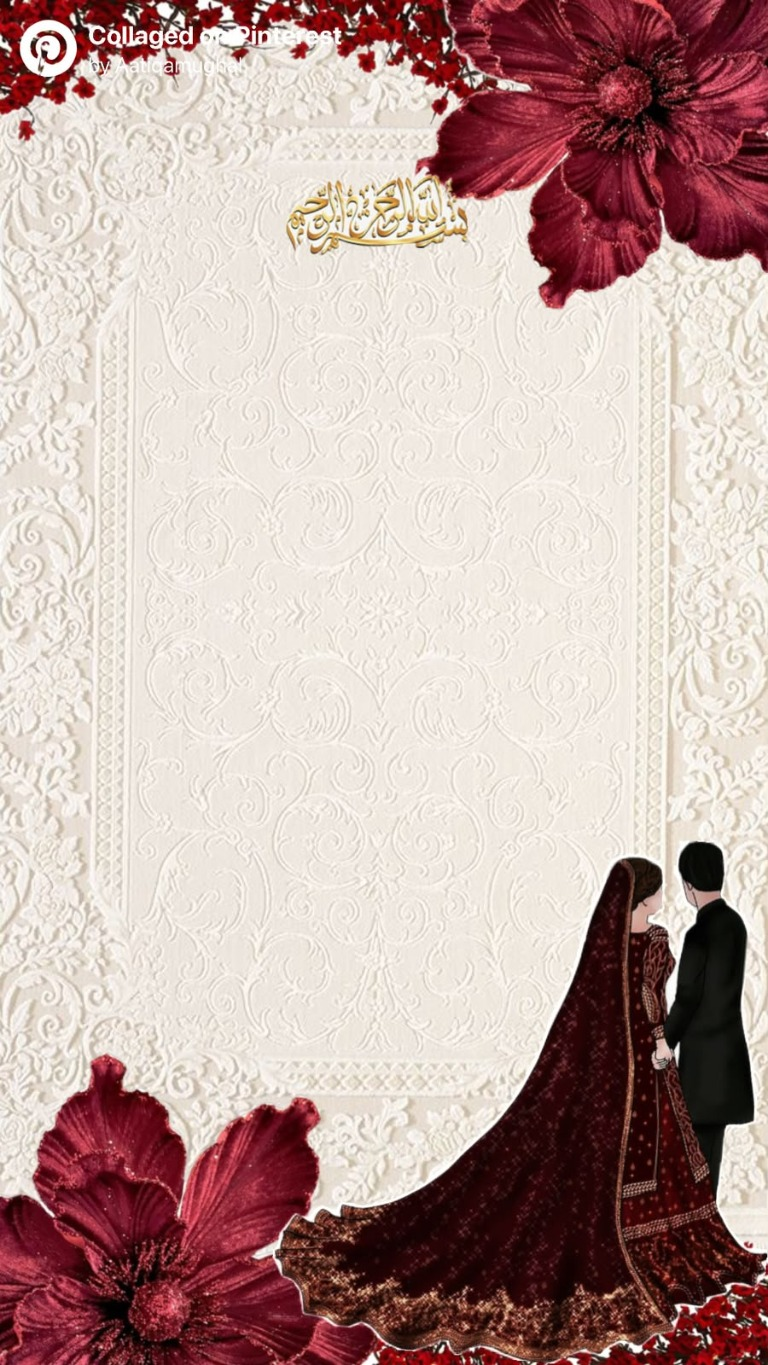
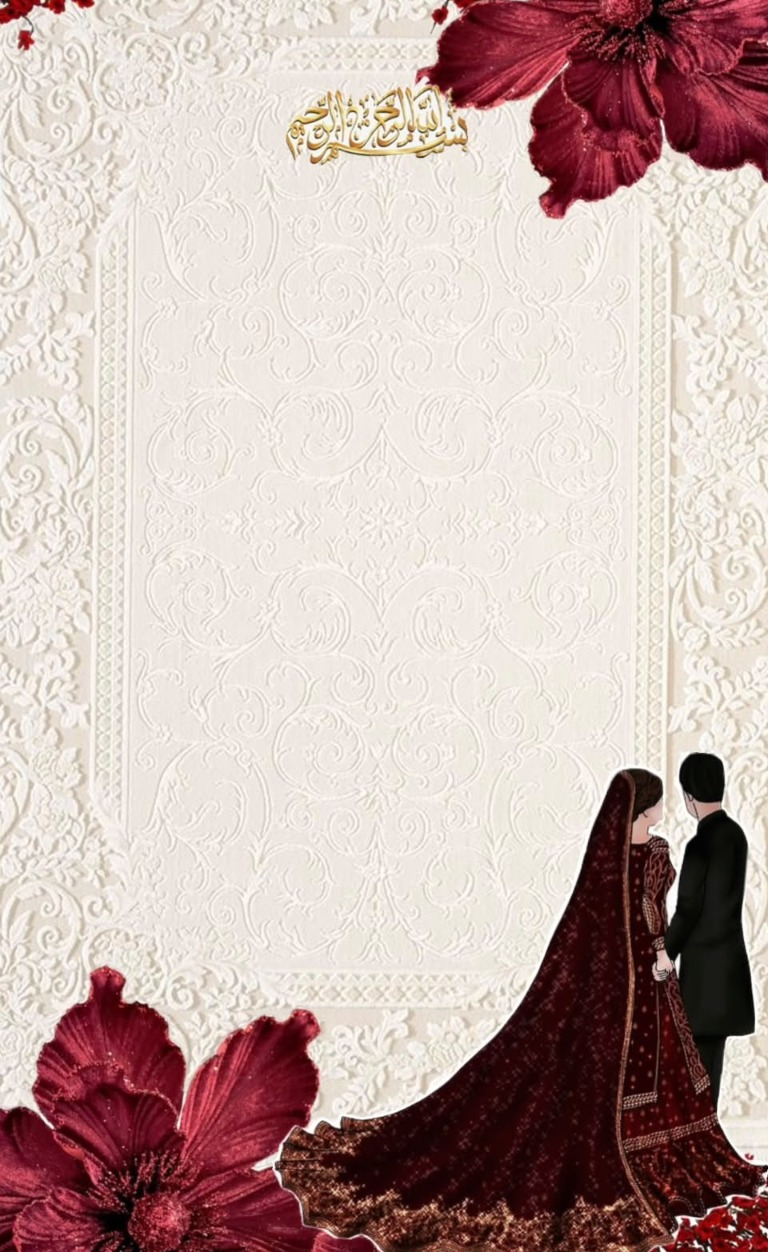
first commit

diff --git a/index.html b/index.html
@@ -4,7 +4,7 @@
   <meta charset="UTF-8">
   <meta name="viewport" content="width=device-width, initial-scale=1.0">
   <meta name="theme-color" content="#8b0000">
-  <title>Wedding Invitation | HASEEB IJAZ & D/O NAEEM GHAFFAR</title>
+  <title>Wedding Invitation | D/O NAEEM GHAFFAR & HASEEB EJAZ</title>
   <link rel="preconnect" href="https://fonts.googleapis.com">
   <link rel="preconnect" href="https://fonts.gstatic.com" crossorigin>
   <link href="https://fonts.googleapis.com/css2?family=Cormorant+Garamond:wght@400;500;600;700&family=DM+Sans:wght@300;400;500;600&family=Great+Vibes&display=swap" rel="stylesheet">
@@ -19,7 +19,7 @@
         <span class="arabic">بِسْمِ اللّٰهِ الرَّحْمٰنِ الرَّحِيْمِ</span>
         <span class="seal">H <i>&</i> A</span>
         <span class="cover-kicker">WEDDING RECEPTION</span>
-        <span class="cover-names">HASEEB IJAZ &amp; D/O NAEEM GHAFFAR<br></span>
+        <span class="cover-names">D/O NAEEM GHAFFAR &amp; HASEEB EJAZ<br></span>
       </button>
       <p class="tap-hint">T A P &nbsp; T O &nbsp; O P E N</p>
       <p class="cover-small">A celebration of love and togetherness</p>
@@ -29,14 +29,14 @@
       <section class="page hero-page reveal">
         <div class="ornament">✧ &nbsp; W E D D I N G &nbsp; R E C E P T I O N &nbsp; ✧</div>
         <p class="script">Together with their families</p>
-        <p class="small-caps">REQUEST THE HONOUR OF YOUR PRESENCE</p>
-        <h1>HASEEB<br><span>IJAZ</span></h1>
-        <p class="subline">S/O IJAZ AHMED</p>
-        <p class="script with">with</p>
-        <h1 class="bride"> D/O NAEEM<br><span>GHAFFAR</span></h1>
+        <p class="small-caps">Your presence and blessings would mean a great deal to both families.</p>
+        <h1>D/O NAEEM<br><span>GHAFFAR</span></h1>
         <p class="subline">D/O NAEEM GHAFFAR</p>
+        <p class="script with">with</p>
+        <h1 class="bride"> HASEEB<br><span>EJAZ</span></h1>
+        <p class="subline">S/O EJAZ AHMED</p>
         <div class="fine-rule"></div>
-        <p class="blessing">Your presence and blessings would mean a great deal to both families.</p>
+        <p class="blessing">REQUEST THE HONOUR OF YOUR PRESENCE</p>
         <div class="leaf">❧</div>
       </section>
 
@@ -48,7 +48,7 @@
           <div class="scratch-under">
             <span class="script">Save the date</span>
             <strong>13 DECEMBER 2026</strong>
-            <span>9:00 PM</span>
+            <span>7:30 PM</span>
           </div>
           <canvas id="scratchCanvas" aria-label="Scratch to reveal the wedding date"></canvas>
         </div>
@@ -60,7 +60,7 @@
         <div class="date-card">
           <p class="small-caps">SUNDAY</p>
           <h2>13 DECEMBER 2026</h2>
-          <p class="script">9:00 PM</p>
+          <p class="script">7:30 PM</p>
         </div>
         <p class="count-label">C O U N T I N G &nbsp; D O W N &nbsp; T O &nbsp; T H E &nbsp; D A Y</p>
         <div class="countdown" id="countdown">
@@ -86,16 +86,15 @@
         <p class="small-caps">WITH THE BLESSINGS OF</p>
         <h2>OUR FAMILIES</h2>
         <div class="family-list">
-          <p>Mr. REYAN MUGHAL</p>
+          <p>Mr. and Mrs. NAEEM GHAFFAR WITH FAMILY</p>
           <p>Mr. and Mrs. MIRZA NADEEM GHAFFAR</p>
           <p>Mr. and Mrs. KHALID ATTARI</p>
-          <p>Mr. and Mrs. SALEEM GHAFFAR</p>
+          <p>Mr. SALEEM   GHAFFAR</p>
           <p>Mr. and Mrs. KALEEM GHAFFAR</p>
-          <p>Mr. and Mrs. Malik Muhammad Younis</p>
-          <p>Mr. and Mrs. ISRAR AHMED</p>
           <p>Mr. and Mrs. MIRZA ABDUL AZIZ</p>
+          <p>Mr. and Mrs. ISRAR AHMED</p>
           <p>Mr. and Mrs. AKBAR MALIK</p>
-          <p>Mr. and Mrs. KAMRAN</p>
+          <p>Mr. and Mrs. KAMRAN AHMED</p>
           <p>Mr. and Mrs. ANWAR AHMED</p>
         </div>
       </section>
@@ -103,17 +102,16 @@
       <section class="page save-page reveal">
         <p class="small-caps">K E E P &nbsp; T H E &nbsp; D A T E</p>
         <h2>SAVE THE DATE</h2>
-        <p>Sunday, 13 December 2026 · 9:00 PM PKT</p>
+        <p>Sunday, 13 December 2026 · 7:30 PM PKT</p>
         <button class="pill-btn" id="googleCalendar">GOOGLE CALENDAR</button>
         <button class="pill-btn secondary" id="outlookCalendar">OUTLOOK CALENDAR</button>
-        <button class="pill-btn secondary" id="downloadIcs">APPLE CALENDAR (.ICS)</button>
+        
       </section>
 
       <section class="page share-page reveal">
         <p class="small-caps">P A S S &nbsp; I T &nbsp; O N</p>
         <h2>SHARE THE<br>INVITATION</h2>
         <button class="pill-btn" id="shareWhatsApp">SHARE ON WHATSAPP</button>
-        <button class="pill-btn secondary" id="copyLink">COPY INVITATION LINK</button>
         <div class="closing">
           <div class="diamond-rule">◇</div>
           <p class="small-caps">WITH LOVE &amp; WARMEST WISHES</p>

diff --git a/style.css b/style.css
@@ -1,5 +1,5 @@
 *{box-sizing:border-box} :root{--paper:#e4c45e;--paper2:#f8f3e9;--ink:#28251f;--muted:#897b63;--gold:#b49a69;--green:#596047}
-html{scroll-behavior:smooth}body{margin:0;background:#8b0000;color:var(--ink);font-family:"DM Sans",sans-serif;font-weight:300}
+html{scroll-behavior:smooth}body{margin:0;background:#8b0000;color:var(--ink);font-family:"DM Sans",sans-serif;font-weight:400}
 .invitation{width:min(100%,480px);margin:0 auto;background:var(--paper);min-height:100vh;overflow:hidden;box-shadow:0 0 55px #54493622}
 .cover-screen{min-height:100svh;display:flex;flex-direction:column;align-items:center;justify-content:center;position:relative;padding:30px 24px;background:#e4c45e url("background-invitation.jpeg") center/cover no-repeat;overflow:hidden}
 .cover-glow{display:none}
@@ -27,3 +27,41 @@ h1,h2,h3{font-family:"Cormorant Garamond",Georgia,serif;font-weight:600}h1{font-
 .reveal{opacity:0;transform:translateY(28px);transition:opacity 1s ease,transform 1s ease}.reveal.in-view{opacity:1;transform:translateY(0)}
 @media(min-width:600px){.invitation{margin:25px auto;border-radius:3px}.cover-screen,.page{min-height:850px}}
 @media(prefers-reduced-motion:reduce){*,*:before,*:after{scroll-behavior:auto!important;transition:none!important;animation:none!important}}
+
+/* Keep the floral artwork visible while giving every page text a calm, readable surface. */
+:root{--ink:#35141d;--muted:#583d36;--gold:#805d35;--green:#4b3329}
+.page{
+  background-image:linear-gradient(rgba(255,251,243,.70),rgba(255,251,243,.70)),url("background-pages.jpeg");
+  color:var(--ink);
+}
+.cover-screen{
+  background-image:linear-gradient(rgba(58,18,28,.08),rgba(58,18,28,.08)),url("background-invitation.jpeg");
+}
+.hero-page{
+  background-image:linear-gradient(rgba(255,251,243,.62),rgba(255,251,243,.62)),url("background-invitation.jpeg");
+}
+.ornament,.small-caps,.scratch-caption,.count-label,.countdown span{color:#56372e}
+.script{color:#572735;font-weight:400}
+.subline,.venue-address,.save-page>p:not(.small-caps){color:#49352f}
+.scratch-help{color:#49352f}
+.tap-hint,.cover-small{color:#4b2d26;text-shadow:0 1px 5px rgba(255,251,243,.95)}
+.cover-kicker{color:#59432e}
+.cover-names{color:#35141d}
+.page h1,.page h2,.page h3,.family-list p,.blessing,.countdown strong{color:#35141d}
+.family-list p{font-size:clamp(17px,4.5vw,19px);font-weight:600}
+.small-caps,.ornament,.scratch-caption,.count-label{font-size:11px;line-height:1.5;letter-spacing:2px}
+.subline,.venue-address,.save-page>p:not(.small-caps){font-size:13px}
+.scratch-help{font-size:12px}
+.pill-btn,.outline-btn{font-size:11px}
+.countdown span{font-size:9px}
+.page:before{border-color:#9c7350}
+.page:after{border-color:rgba(156,115,80,.55)}
+.scratch-page h2,.venue-page h2,.save-page h2,.share-page h2,.family-page h2{font-weight:600}
+.countdown>b{font-weight:400}
+@media(max-width:360px){
+  .page{padding-left:26px;padding-right:26px}
+  .countdown{gap:6px}
+  .countdown div{min-width:42px}
+  .countdown strong{font-size:28px}
+  .small-caps,.ornament,.scratch-caption,.count-label{letter-spacing:1.5px}
+}
